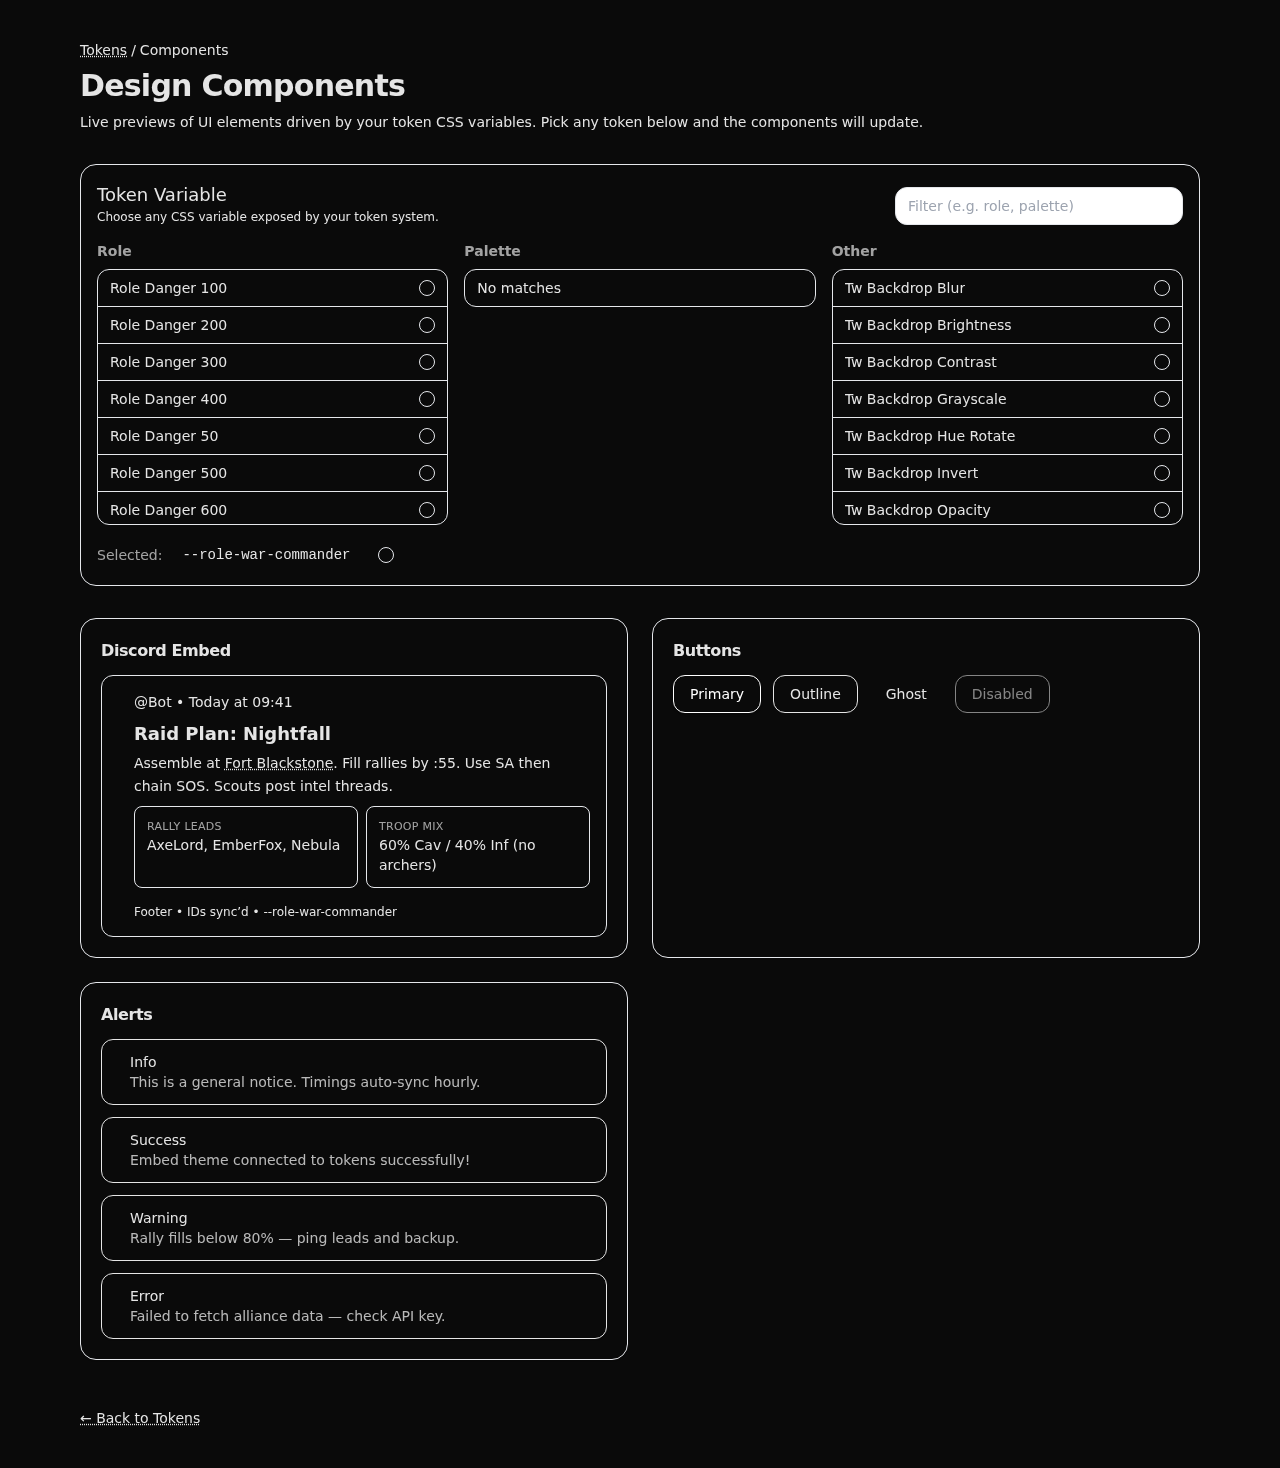
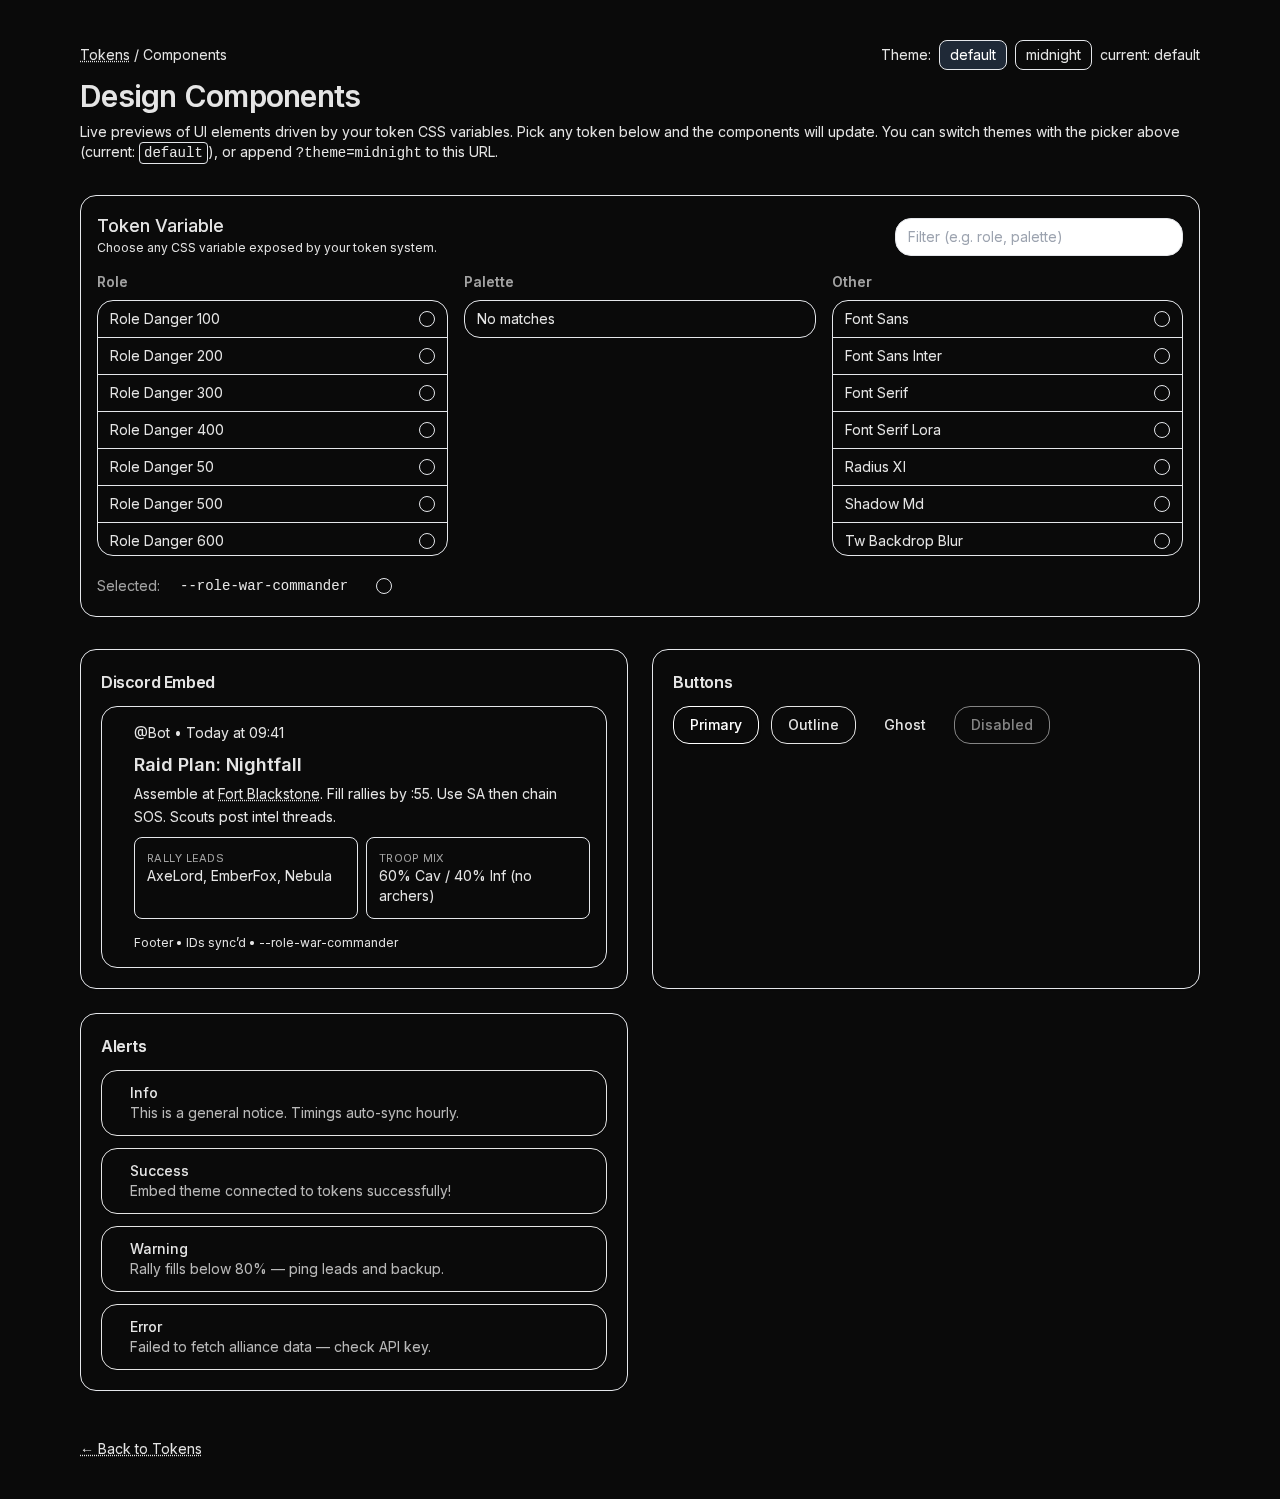
design: add ThemePicker to tokens page; update Annex 17 (theming + captions); add snapshot images (default + midnight)

diff --git a/apps/web/app/(public)/design/tokens/page.tsx b/apps/web/app/(public)/design/tokens/page.tsx
@@ -1,9 +1,14 @@
 // apps/web/app/(public)/design/tokens/page.tsx
+'use client';
+
 import Link from 'next/link';
+import ThemePicker from '@/components/design/ThemePicker';
 
-export const dynamic = "force-static";
+export const dynamic = 'force-static';
 
-const shades = ['50','100','200','300','400','500','600','700','800','900'] as const;
+const shades = [
+  '50','100','200','300','400','500','600','700','800','900'
+] as const;
 
 function Swatch({
   className,
@@ -44,7 +49,10 @@ function ColorRow({ prefix }: { prefix: 'primary'|'success'|'warning'|'danger'|'
 export default function DesignTokensPage() {
   return (
     <main className="p-6 space-y-8">
-      <h1 className="text-xl font-semibold">Design Tokens</h1>
+      <header className="flex items-center justify-between">
+        <h1 className="text-xl font-semibold">Design Tokens</h1>
+        <ThemePicker />
+      </header>
 
       <section className="space-y-4">
         <h2 className="text-sm text-neutral-400">Color palette</h2>

diff --git a/docs/annexes/annexe-17-design-system-and-content-guidelines.md b/docs/annexes/annexe-17-design-system-and-content-guidelines.md
@@ -264,14 +264,22 @@ export interface GuildThemeConfig {
 ---
 
 ## 17.10 Design Snapshots
-### Design Snapshot: Tokens
-![Design Tokens](../../static/images/design/design-tokens.png)
+> The following screenshots are generated by Playwright in CI (`docs/static/images/design/*`).
 
-### Design Snapshot: Components Gallery
-![Design Components](../../static/images/design/design-components.png)
+**Tokens — default theme**  
+![Design Tokens — default](../../static/images/design/design-tokens.png)
+
+**Tokens — midnight theme**  
+![Design Tokens — midnight](../../static/images/design/design-tokens--midnight.png)
+
+**Components Gallery — default theme**  
+![Design Components — default](../../static/images/design/design-components.png)
+
+**Components Gallery — midnight theme**  
+![Design Components — midnight](../../static/images/design/design-components--midnight.png)
 
 ---
 
 ## 17.11 Revision Notes
-- **2025‑08‑17:** Added named themes, per‑guild overrides, storage contract (`guild_theme_configs`), and documentation screenshots.
+- **2025‑08‑17:** Added named themes, per‑guild overrides, storage contract (`guild_theme_configs`), and dual-theme documentation screenshots.
 - **2025‑08‑16:** Initial LOCKED version; seeded starter palette, typography scale, asset specs, and Discord/PWA alignment.
